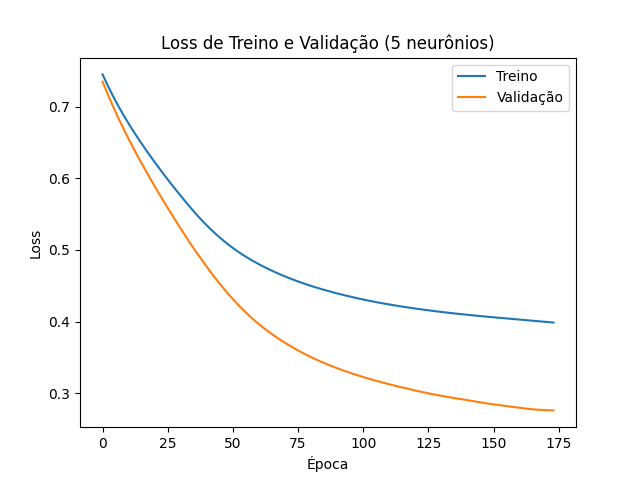
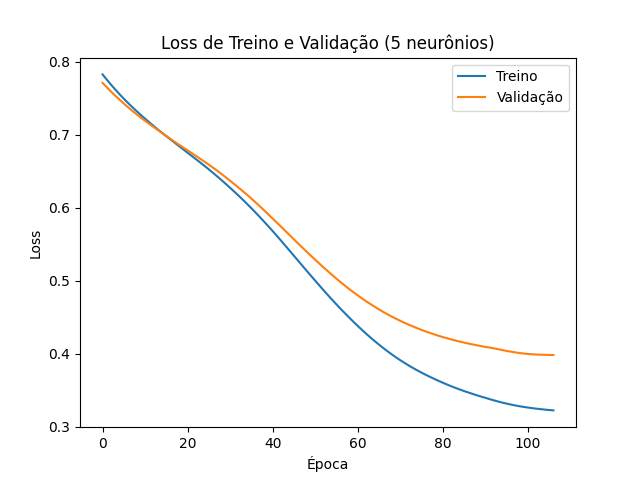
refact: faz com que imagens sejam salvas de acordo com número

diff --git a/questao3/main.py b/questao3/main.py
@@ -6,7 +6,7 @@ from pathlib import Path
 from MLP import MLP
 import numpy as np
 import copy
-import random
+
 n_samples = 500
 SEED = 2309
 NOISE = 0.3
@@ -14,6 +14,7 @@ EPOCHS = 200
 ERROR = 1e-4
 
 def main():
+    img = 1
     X, y = make_moons(
         n_samples=n_samples,
         noise=NOISE,
@@ -32,8 +33,9 @@ def main():
     plt.xlabel("x1")
     plt.ylabel("x2")
     plt.plot()
-    plt.savefig(save_dir/"01-data.png")
+    plt.savefig(save_dir/f"0{img}-data.png")
     plt.close()
+    img += 1
 
     X_train, X_temp, y_train, y_temp = train_test_split(
         X,
@@ -114,8 +116,9 @@ def main():
         plt.xlabel("Época")
         plt.ylabel("Loss")
 
-        plt.savefig(save_dir/f"02-loss_{perceptrons}.png")
+        plt.savefig(save_dir/f"0{img}-loss_{perceptrons}.png")
         plt.close()
+        img += 1
 
     best_model.eval()
 
@@ -137,8 +140,9 @@ def main():
     plt.contourf(xx, yy, Z, levels=20, cmap="bwr", alpha=0.4)
     plt.scatter(X[:,0], X[:,1], c=y, cmap="bwr")
 
-    plt.savefig(save_dir/"03-decision_boundary.png")
-    
+    plt.savefig(save_dir/f"0{img}-decision_boundary.png")
+    img += 1
+
     with torch.no_grad():
         outputs = best_model(X_test)
         predictions = (outputs >= 0.5).float()